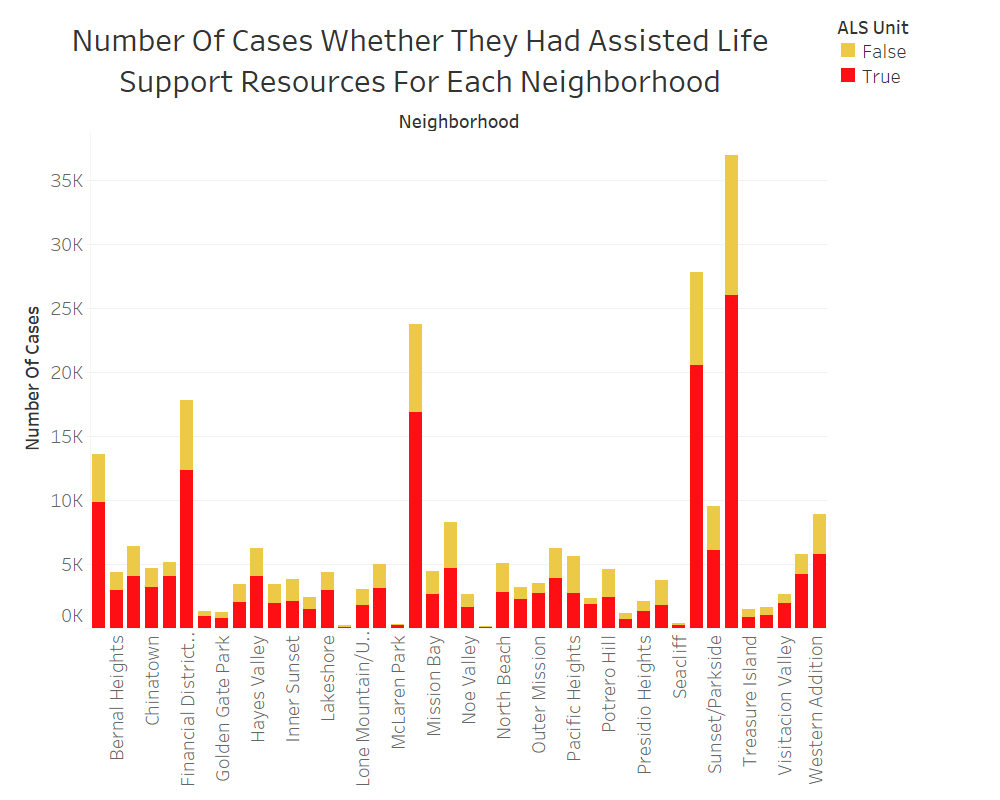
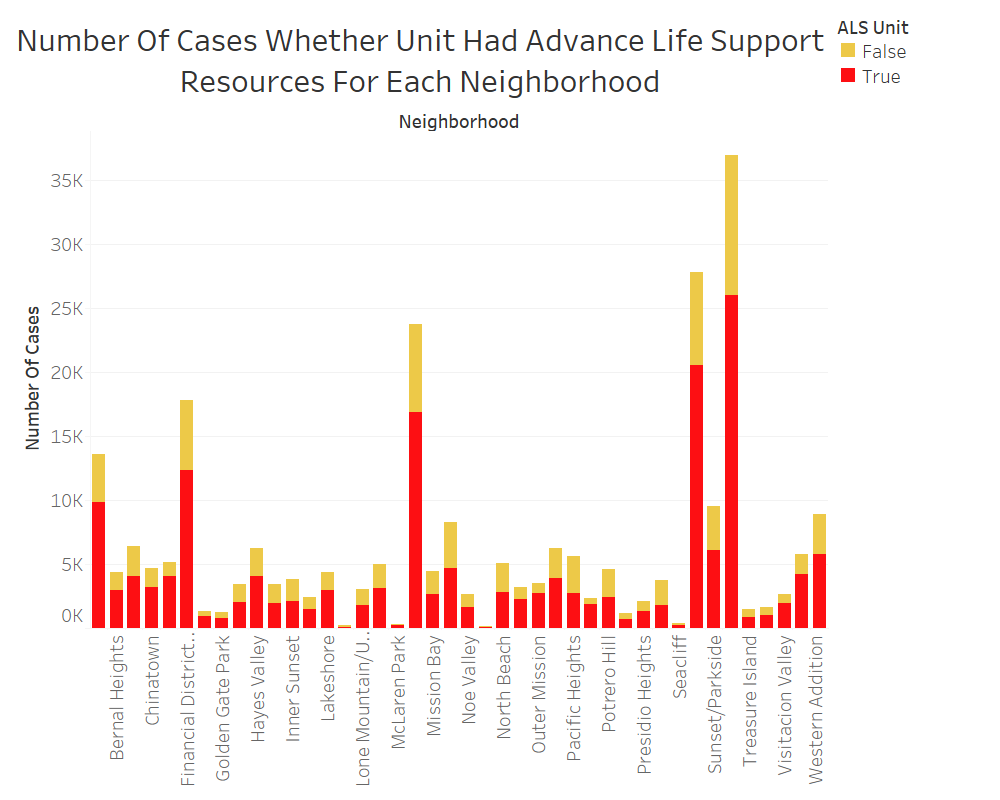
Oops wrong title. Oops I've got 99 problems singing bye bye bye!

Changed region(s): [[0.0, 0.0312, 0.837, 0.125]]

diff --git a/visualizations.html b/visualizations.html
@@ -94,7 +94,7 @@
         <h4> Artist: Justine Huynh</h4>
         <img src = "ALS_Support(J).png" height = 600>
         <p> This prototype supports the theme of quality of the SF Fire Department responses.
-        Even if none of the patients require Assisted Life Support (ALS),
+        Even if none of the patients require Advance Life Support (ALS),
       ambulances that carry ALS units show great safety precaution in the event where future patients
     <i>do</i> need ALS support resouces. </p>
       </div>
